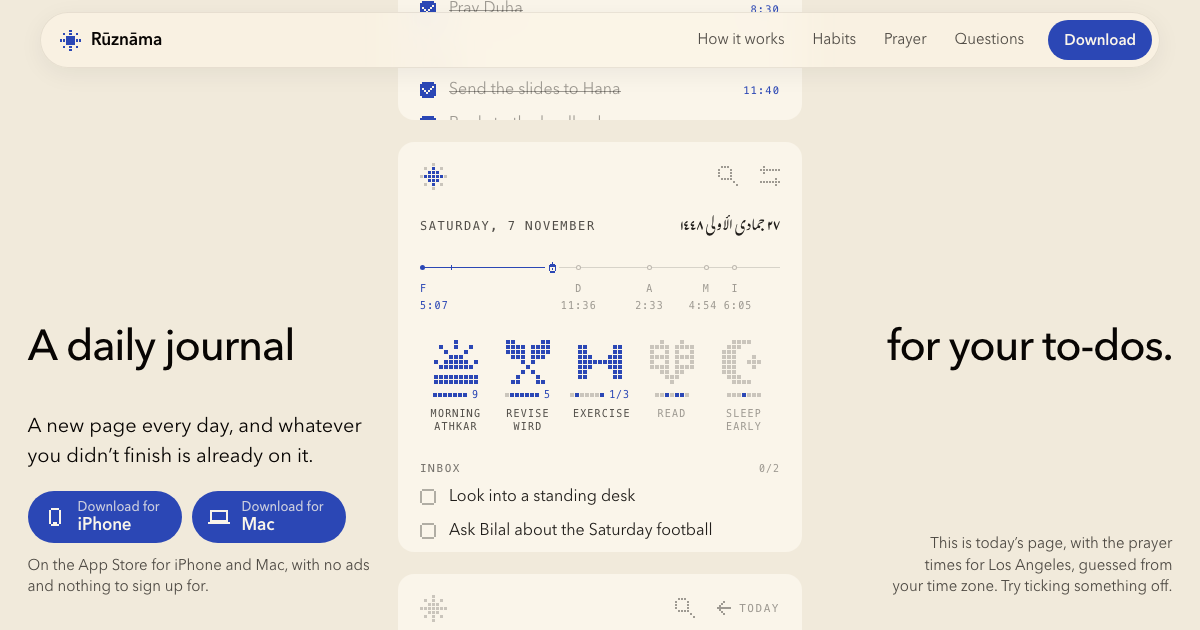
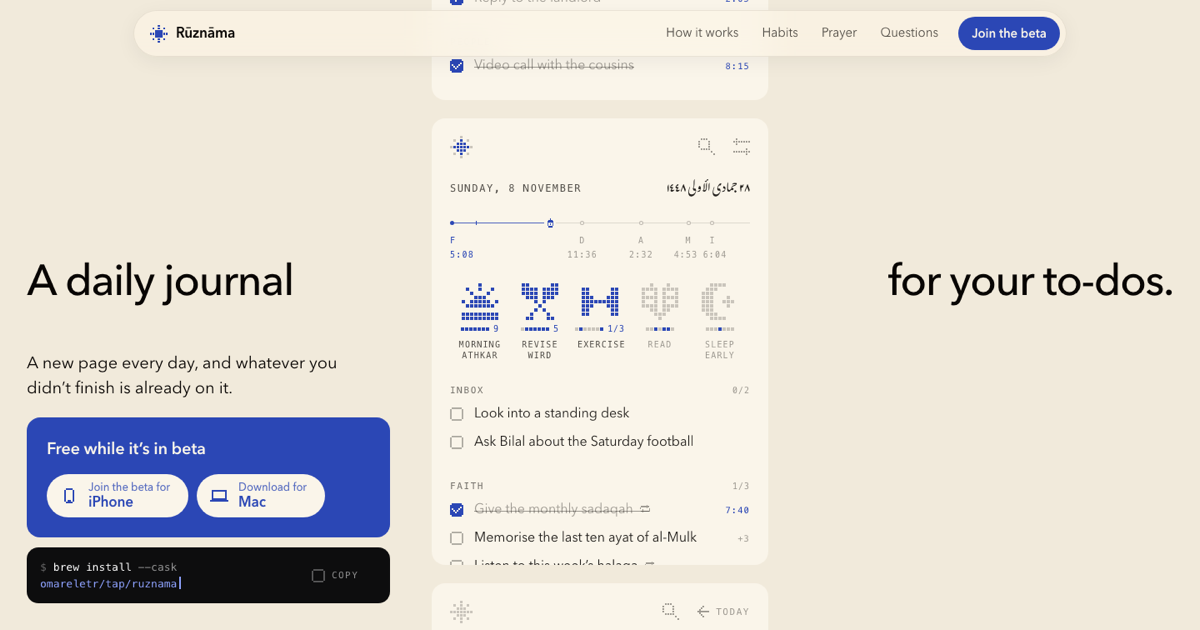
Free in beta on a lapis field with the buttons, Homebrew up top as a small terminal
The hero's grey notes go. The offer, its founders' promise and both buttons
stand on one flat lapis field, kept 48px clear of the day page at every width;
the brew line sits under it in the page's ink turned over, with the app's caret
and box. The final section says the same words plainly. New social preview.

diff --git a/index.html b/index.html
@@ -19,14 +19,14 @@
 <link rel="icon" href="favicon.svg" type="image/svg+xml">
 <link rel="apple-touch-icon" href="media/apple-touch-icon.png">
 <link rel="preload" href="fonts/gulzar-subset.woff2" as="font" type="font/woff2" crossorigin>
-<link rel="stylesheet" href="css/app.css?v=mw8h2xjx">
-<link rel="stylesheet" href="css/page.css?v=mw8h2xjx">
-<script src="sky.js?v=mw8h2xjx"></script>
+<link rel="stylesheet" href="css/app.css?v=mw8k8u9p">
+<link rel="stylesheet" href="css/page.css?v=mw8k8u9p">
+<script src="sky.js?v=mw8k8u9p"></script>
 <script src="vendor/gsap.min.js" defer></script>
 <script src="vendor/ScrollTrigger.min.js" defer></script>
 <script src="vendor/lenis.min.js" defer></script>
-<script src="js/page.js?v=mw8h2xjx" defer></script>
-<script src="js/motion.js?v=mw8h2xjx" defer></script>
+<script src="js/page.js?v=mw8k8u9p" defer></script>
+<script src="js/motion.js?v=mw8k8u9p" defer></script>
 <script type="application/ld+json">
 {"@context":"https://schema.org","@type":"SoftwareApplication","name":"Rūznāma","alternateName":"Ruznama","operatingSystem":"iOS, macOS","applicationCategory":"ProductivityApplication","description":"A daily journal for your to-dos. You get a new page every day, and anything you didn't finish moves onto it at 4am.","url":"https://ruznama.app/","installUrl":"https://testflight.apple.com/join/cyVZVRZA","author":{"@type":"Person","name":"Omar El-Etr"}}
 </script>
@@ -141,11 +141,10 @@
     <div class="hero-foot">
       <p class="hero-sub">A new page every day, and whatever you didn’t finish is already on it.</p>
       <div class="hero-act">
-        <div class="stores"><a class="store store-phone" href="https://testflight.apple.com/join/cyVZVRZA" aria-label="Join the iPhone beta on TestFlight"><svg class="px phone" viewBox="0 0 6 9" aria-hidden="true" focusable="false"><rect x="1" y="0" width="1" height="1"/><rect x="2" y="0" width="1" height="1"/><rect x="3" y="0" width="1" height="1"/><rect x="4" y="0" width="1" height="1"/><rect x="0" y="1" width="1" height="1"/><rect x="5" y="1" width="1" height="1"/><rect x="0" y="2" width="1" height="1"/><rect x="5" y="2" width="1" height="1"/><rect x="0" y="3" width="1" height="1"/><rect x="5" y="3" width="1" height="1"/><rect x="0" y="4" width="1" height="1"/><rect x="5" y="4" width="1" height="1"/><rect x="0" y="5" width="1" height="1"/><rect x="5" y="5" width="1" height="1"/><rect x="0" y="6" width="1" height="1"/><rect x="5" y="6" width="1" height="1"/><rect x="0" y="7" width="1" height="1"/><rect x="2" y="7" width="1" height="1"/><rect x="3" y="7" width="1" height="1"/><rect x="5" y="7" width="1" height="1"/><rect x="1" y="8" width="1" height="1"/><rect x="2" y="8" width="1" height="1"/><rect x="3" y="8" width="1" height="1"/><rect x="4" y="8" width="1" height="1"/></svg><span class="store-t"><small>Join the beta for</small>iPhone</span></a><a class="store store-mac" href="https://github.com/omareletr/homebrew-tap/releases/latest/download/Ruznama.dmg" aria-label="Download the Mac beta"><svg class="px mac" viewBox="0 0 11 7" aria-hidden="true" focusable="false"><rect x="1" y="0" width="1" height="1"/><rect x="2" y="0" width="1" height="1"/><rect x="3" y="0" width="1" height="1"/><rect x="4" y="0" width="1" height="1"/><rect x="5" y="0" width="1" height="1"/><rect x="6" y="0" width="1" height="1"/><rect x="7" y="0" width="1" height="1"/><rect x="8" y="0" width="1" height="1"/><rect x="9" y="0" width="1" height="1"/><rect x="1" y="1" width="1" height="1"/><rect x="9" y="1" width="1" height="1"/><rect x="1" y="2" width="1" height="1"/><rect x="9" y="2" width="1" height="1"/><rect x="1" y="3" width="1" height="1"/><rect x="9" y="3" width="1" height="1"/><rect x="1" y="4" width="1" height="1"/><rect x="9" y="4" width="1" height="1"/><rect x="1" y="5" width="1" height="1"/><rect x="2" y="5" width="1" height="1"/><rect x="3" y="5" width="1" height="1"/><rect x="4" y="5" width="1" height="1"/><rect x="5" y="5" width="1" height="1"/><rect x="6" y="5" width="1" height="1"/><rect x="7" y="5" width="1" height="1"/><rect x="8" y="5" width="1" height="1"/><rect x="9" y="5" width="1" height="1"/><rect x="0" y="6" width="1" height="1"/><rect x="1" y="6" width="1" height="1"/><rect x="2" y="6" width="1" height="1"/><rect x="3" y="6" width="1" height="1"/><rect x="4" y="6" width="1" height="1"/><rect x="5" y="6" width="1" height="1"/><rect x="6" y="6" width="1" height="1"/><rect x="7" y="6" width="1" height="1"/><rect x="8" y="6" width="1" height="1"/><rect x="9" y="6" width="1" height="1"/><rect x="10" y="6" width="1" height="1"/></svg><span class="store-t"><small>Download for</small>Mac</span></a></div>
-        <span class="hero-for">In beta for iPhone and Mac, with no ads and nothing to sign up for. Join now and you’ll pay less for it, for good, once it goes on sale.</span>
+        <div class="offer-field tone-lapis"><p class="offer-h">Free while it’s in beta</p><p class="offer-t">Join before it goes on sale and you’ll always pay less.</p><div class="stores"><a class="store store-phone" href="https://testflight.apple.com/join/cyVZVRZA" aria-label="Join the iPhone beta on TestFlight"><svg class="px phone" viewBox="0 0 6 9" aria-hidden="true" focusable="false"><rect x="1" y="0" width="1" height="1"/><rect x="2" y="0" width="1" height="1"/><rect x="3" y="0" width="1" height="1"/><rect x="4" y="0" width="1" height="1"/><rect x="0" y="1" width="1" height="1"/><rect x="5" y="1" width="1" height="1"/><rect x="0" y="2" width="1" height="1"/><rect x="5" y="2" width="1" height="1"/><rect x="0" y="3" width="1" height="1"/><rect x="5" y="3" width="1" height="1"/><rect x="0" y="4" width="1" height="1"/><rect x="5" y="4" width="1" height="1"/><rect x="0" y="5" width="1" height="1"/><rect x="5" y="5" width="1" height="1"/><rect x="0" y="6" width="1" height="1"/><rect x="5" y="6" width="1" height="1"/><rect x="0" y="7" width="1" height="1"/><rect x="2" y="7" width="1" height="1"/><rect x="3" y="7" width="1" height="1"/><rect x="5" y="7" width="1" height="1"/><rect x="1" y="8" width="1" height="1"/><rect x="2" y="8" width="1" height="1"/><rect x="3" y="8" width="1" height="1"/><rect x="4" y="8" width="1" height="1"/></svg><span class="store-t"><small>Join the beta for</small>iPhone</span></a><a class="store store-mac" href="https://github.com/omareletr/homebrew-tap/releases/latest/download/Ruznama.dmg" aria-label="Download the Mac beta"><svg class="px mac" viewBox="0 0 11 7" aria-hidden="true" focusable="false"><rect x="1" y="0" width="1" height="1"/><rect x="2" y="0" width="1" height="1"/><rect x="3" y="0" width="1" height="1"/><rect x="4" y="0" width="1" height="1"/><rect x="5" y="0" width="1" height="1"/><rect x="6" y="0" width="1" height="1"/><rect x="7" y="0" width="1" height="1"/><rect x="8" y="0" width="1" height="1"/><rect x="9" y="0" width="1" height="1"/><rect x="1" y="1" width="1" height="1"/><rect x="9" y="1" width="1" height="1"/><rect x="1" y="2" width="1" height="1"/><rect x="9" y="2" width="1" height="1"/><rect x="1" y="3" width="1" height="1"/><rect x="9" y="3" width="1" height="1"/><rect x="1" y="4" width="1" height="1"/><rect x="9" y="4" width="1" height="1"/><rect x="1" y="5" width="1" height="1"/><rect x="2" y="5" width="1" height="1"/><rect x="3" y="5" width="1" height="1"/><rect x="4" y="5" width="1" height="1"/><rect x="5" y="5" width="1" height="1"/><rect x="6" y="5" width="1" height="1"/><rect x="7" y="5" width="1" height="1"/><rect x="8" y="5" width="1" height="1"/><rect x="9" y="5" width="1" height="1"/><rect x="0" y="6" width="1" height="1"/><rect x="1" y="6" width="1" height="1"/><rect x="2" y="6" width="1" height="1"/><rect x="3" y="6" width="1" height="1"/><rect x="4" y="6" width="1" height="1"/><rect x="5" y="6" width="1" height="1"/><rect x="6" y="6" width="1" height="1"/><rect x="7" y="6" width="1" height="1"/><rect x="8" y="6" width="1" height="1"/><rect x="9" y="6" width="1" height="1"/><rect x="10" y="6" width="1" height="1"/></svg><span class="store-t"><small>Download for</small>Mac</span></a></div></div>
+        <div class="brew tone-flip"><code class="brew-cmd"><span class="brew-p" aria-hidden="true">$</span> <span class="brew-verb">brew install</span> <span class="brew-flag nw">--cask</span> <span class="brew-arg">omareletr/tap/ruznama</span><i class="brew-caret" aria-hidden="true"></i></code><button class="brew-copy" type="button" data-copy="brew install --cask omareletr/tap/ruznama" aria-label="Copy the Homebrew command"><span class="bx-m"><svg class="px bx-open" viewBox="0 0 8 8" aria-hidden="true" focusable="false"><rect x="1" y="0" width="1" height="1"/><rect x="2" y="0" width="1" height="1"/><rect x="3" y="0" width="1" height="1"/><rect x="4" y="0" width="1" height="1"/><rect x="5" y="0" width="1" height="1"/><rect x="6" y="0" width="1" height="1"/><rect x="0" y="1" width="1" height="1"/><rect x="7" y="1" width="1" height="1"/><rect x="0" y="2" width="1" height="1"/><rect x="7" y="2" width="1" height="1"/><rect x="0" y="3" width="1" height="1"/><rect x="7" y="3" width="1" height="1"/><rect x="0" y="4" width="1" height="1"/><rect x="7" y="4" width="1" height="1"/><rect x="0" y="5" width="1" height="1"/><rect x="7" y="5" width="1" height="1"/><rect x="0" y="6" width="1" height="1"/><rect x="7" y="6" width="1" height="1"/><rect x="1" y="7" width="1" height="1"/><rect x="2" y="7" width="1" height="1"/><rect x="3" y="7" width="1" height="1"/><rect x="4" y="7" width="1" height="1"/><rect x="5" y="7" width="1" height="1"/><rect x="6" y="7" width="1" height="1"/></svg><svg class="px bx-done" viewBox="0 0 8 8" aria-hidden="true" focusable="false"><rect x="3" y="3" width="1" height="1" style="--d:1ms;--r:215ms"/><rect x="4" y="3" width="1" height="1" style="--d:3ms;--r:199ms"/><rect x="3" y="4" width="1" height="1" style="--d:6ms;--r:187ms"/><rect x="3" y="2" width="1" height="1" style="--d:8ms;--r:178ms"/><rect x="4" y="2" width="1" height="1" style="--d:10ms;--r:170ms"/><rect x="2" y="3" width="1" height="1" style="--d:13ms;--r:163ms"/><rect x="5" y="4" width="1" height="1" style="--d:15ms;--r:157ms"/><rect x="4" y="5" width="1" height="1" style="--d:17ms;--r:151ms"/><rect x="2" y="2" width="1" height="1" style="--d:20ms;--r:145ms"/><rect x="5" y="2" width="1" height="1" style="--d:22ms;--r:140ms"/><rect x="2" y="5" width="1" height="1" style="--d:25ms;--r:134ms"/><rect x="5" y="5" width="1" height="1" style="--d:27ms;--r:129ms"/><rect x="3" y="1" width="1" height="1" style="--d:30ms;--r:125ms"/><rect x="4" y="1" width="1" height="1" style="--d:32ms;--r:120ms"/><rect x="6" y="3" width="1" height="1" style="--d:35ms;--r:116ms"/><rect x="1" y="4" width="1" height="1" style="--d:37ms;--r:112ms"/><rect x="6" y="4" width="1" height="1" style="--d:40ms;--r:108ms"/><rect x="3" y="6" width="1" height="1" style="--d:43ms;--r:104ms"/><rect x="4" y="6" width="1" height="1" style="--d:46ms;--r:100ms"/><rect x="2" y="1" width="1" height="1" style="--d:48ms;--r:96ms"/><rect x="5" y="1" width="1" height="1" style="--d:51ms;--r:92ms"/><rect x="1" y="2" width="1" height="1" style="--d:54ms;--r:89ms"/><rect x="1" y="5" width="1" height="1" style="--d:57ms;--r:85ms"/><rect x="6" y="5" width="1" height="1" style="--d:60ms;--r:82ms"/><rect x="2" y="6" width="1" height="1" style="--d:63ms;--r:79ms"/><rect x="5" y="6" width="1" height="1" style="--d:66ms;--r:75ms"/><rect x="3" y="0" width="1" height="1" style="--d:69ms;--r:72ms"/><rect x="4" y="0" width="1" height="1" style="--d:72ms;--r:69ms"/><rect x="1" y="1" width="1" height="1" style="--d:75ms;--r:66ms"/><rect x="6" y="1" width="1" height="1" style="--d:79ms;--r:63ms"/><rect x="0" y="3" width="1" height="1" style="--d:82ms;--r:60ms"/><rect x="7" y="3" width="1" height="1" style="--d:85ms;--r:57ms"/><rect x="0" y="4" width="1" height="1" style="--d:89ms;--r:54ms"/><rect x="7" y="4" width="1" height="1" style="--d:92ms;--r:51ms"/><rect x="1" y="6" width="1" height="1" style="--d:96ms;--r:48ms"/><rect x="6" y="6" width="1" height="1" style="--d:100ms;--r:46ms"/><rect x="3" y="7" width="1" height="1" style="--d:104ms;--r:43ms"/><rect x="4" y="7" width="1" height="1" style="--d:108ms;--r:40ms"/><rect x="2" y="0" width="1" height="1" style="--d:112ms;--r:37ms"/><rect x="5" y="0" width="1" height="1" style="--d:116ms;--r:35ms"/><rect x="0" y="2" width="1" height="1" style="--d:120ms;--r:32ms"/><rect x="7" y="2" width="1" height="1" style="--d:125ms;--r:30ms"/><rect x="0" y="5" width="1" height="1" style="--d:129ms;--r:27ms"/><rect x="7" y="5" width="1" height="1" style="--d:134ms;--r:25ms"/><rect x="2" y="7" width="1" height="1" style="--d:140ms;--r:22ms"/><rect x="5" y="7" width="1" height="1" style="--d:145ms;--r:20ms"/><rect x="1" y="0" width="1" height="1" style="--d:151ms;--r:17ms"/><rect x="6" y="0" width="1" height="1" style="--d:157ms;--r:15ms"/><rect x="0" y="1" width="1" height="1" style="--d:163ms;--r:13ms"/><rect x="7" y="1" width="1" height="1" style="--d:170ms;--r:10ms"/><rect x="0" y="6" width="1" height="1" style="--d:178ms;--r:8ms"/><rect x="7" y="6" width="1" height="1" style="--d:187ms;--r:6ms"/><rect x="1" y="7" width="1" height="1" style="--d:199ms;--r:3ms"/><rect x="6" y="7" width="1" height="1" style="--d:215ms;--r:1ms"/></svg></span><span class="brew-copy-t">Copy</span></button></div>
       </div>
     </div>
-    <p class="hero-note" data-place>This is today’s page, with today’s date. Try ticking something off.</p>
   </div>
 </section>
 
@@ -365,7 +364,7 @@
         <li>Add a task from any app, on keys you choose</li>
         <li>A key for nearly everything: ⌘N to write, ⌘F to find, ⌘[ and ⌘] between days</li>
       </ul>
-      <div class="both-get"><a class="store store-mac" href="https://github.com/omareletr/homebrew-tap/releases/latest/download/Ruznama.dmg" aria-label="Download the Mac beta"><svg class="px mac" viewBox="0 0 11 7" aria-hidden="true" focusable="false"><rect x="1" y="0" width="1" height="1"/><rect x="2" y="0" width="1" height="1"/><rect x="3" y="0" width="1" height="1"/><rect x="4" y="0" width="1" height="1"/><rect x="5" y="0" width="1" height="1"/><rect x="6" y="0" width="1" height="1"/><rect x="7" y="0" width="1" height="1"/><rect x="8" y="0" width="1" height="1"/><rect x="9" y="0" width="1" height="1"/><rect x="1" y="1" width="1" height="1"/><rect x="9" y="1" width="1" height="1"/><rect x="1" y="2" width="1" height="1"/><rect x="9" y="2" width="1" height="1"/><rect x="1" y="3" width="1" height="1"/><rect x="9" y="3" width="1" height="1"/><rect x="1" y="4" width="1" height="1"/><rect x="9" y="4" width="1" height="1"/><rect x="1" y="5" width="1" height="1"/><rect x="2" y="5" width="1" height="1"/><rect x="3" y="5" width="1" height="1"/><rect x="4" y="5" width="1" height="1"/><rect x="5" y="5" width="1" height="1"/><rect x="6" y="5" width="1" height="1"/><rect x="7" y="5" width="1" height="1"/><rect x="8" y="5" width="1" height="1"/><rect x="9" y="5" width="1" height="1"/><rect x="0" y="6" width="1" height="1"/><rect x="1" y="6" width="1" height="1"/><rect x="2" y="6" width="1" height="1"/><rect x="3" y="6" width="1" height="1"/><rect x="4" y="6" width="1" height="1"/><rect x="5" y="6" width="1" height="1"/><rect x="6" y="6" width="1" height="1"/><rect x="7" y="6" width="1" height="1"/><rect x="8" y="6" width="1" height="1"/><rect x="9" y="6" width="1" height="1"/><rect x="10" y="6" width="1" height="1"/></svg><span class="store-t"><small>Download for</small>Mac</span></a><div class="brew"><code class="brew-cmd"><span class="brew-p" aria-hidden="true">$ </span>brew install <span class="nw">--cask</span> omareletr/tap/ruznama</code><button class="brew-copy" type="button" data-copy="brew install --cask omareletr/tap/ruznama">Copy</button></div></div>
+      <div class="both-get"><a class="store store-mac" href="https://github.com/omareletr/homebrew-tap/releases/latest/download/Ruznama.dmg" aria-label="Download the Mac beta"><svg class="px mac" viewBox="0 0 11 7" aria-hidden="true" focusable="false"><rect x="1" y="0" width="1" height="1"/><rect x="2" y="0" width="1" height="1"/><rect x="3" y="0" width="1" height="1"/><rect x="4" y="0" width="1" height="1"/><rect x="5" y="0" width="1" height="1"/><rect x="6" y="0" width="1" height="1"/><rect x="7" y="0" width="1" height="1"/><rect x="8" y="0" width="1" height="1"/><rect x="9" y="0" width="1" height="1"/><rect x="1" y="1" width="1" height="1"/><rect x="9" y="1" width="1" height="1"/><rect x="1" y="2" width="1" height="1"/><rect x="9" y="2" width="1" height="1"/><rect x="1" y="3" width="1" height="1"/><rect x="9" y="3" width="1" height="1"/><rect x="1" y="4" width="1" height="1"/><rect x="9" y="4" width="1" height="1"/><rect x="1" y="5" width="1" height="1"/><rect x="2" y="5" width="1" height="1"/><rect x="3" y="5" width="1" height="1"/><rect x="4" y="5" width="1" height="1"/><rect x="5" y="5" width="1" height="1"/><rect x="6" y="5" width="1" height="1"/><rect x="7" y="5" width="1" height="1"/><rect x="8" y="5" width="1" height="1"/><rect x="9" y="5" width="1" height="1"/><rect x="0" y="6" width="1" height="1"/><rect x="1" y="6" width="1" height="1"/><rect x="2" y="6" width="1" height="1"/><rect x="3" y="6" width="1" height="1"/><rect x="4" y="6" width="1" height="1"/><rect x="5" y="6" width="1" height="1"/><rect x="6" y="6" width="1" height="1"/><rect x="7" y="6" width="1" height="1"/><rect x="8" y="6" width="1" height="1"/><rect x="9" y="6" width="1" height="1"/><rect x="10" y="6" width="1" height="1"/></svg><span class="store-t"><small>Download for</small>Mac</span></a><div class="brew tone-flip"><code class="brew-cmd"><span class="brew-p" aria-hidden="true">$</span> <span class="brew-verb">brew install</span> <span class="brew-flag nw">--cask</span> <span class="brew-arg">omareletr/tap/ruznama</span><i class="brew-caret" aria-hidden="true"></i></code><button class="brew-copy" type="button" data-copy="brew install --cask omareletr/tap/ruznama" aria-label="Copy the Homebrew command"><span class="bx-m"><svg class="px bx-open" viewBox="0 0 8 8" aria-hidden="true" focusable="false"><rect x="1" y="0" width="1" height="1"/><rect x="2" y="0" width="1" height="1"/><rect x="3" y="0" width="1" height="1"/><rect x="4" y="0" width="1" height="1"/><rect x="5" y="0" width="1" height="1"/><rect x="6" y="0" width="1" height="1"/><rect x="0" y="1" width="1" height="1"/><rect x="7" y="1" width="1" height="1"/><rect x="0" y="2" width="1" height="1"/><rect x="7" y="2" width="1" height="1"/><rect x="0" y="3" width="1" height="1"/><rect x="7" y="3" width="1" height="1"/><rect x="0" y="4" width="1" height="1"/><rect x="7" y="4" width="1" height="1"/><rect x="0" y="5" width="1" height="1"/><rect x="7" y="5" width="1" height="1"/><rect x="0" y="6" width="1" height="1"/><rect x="7" y="6" width="1" height="1"/><rect x="1" y="7" width="1" height="1"/><rect x="2" y="7" width="1" height="1"/><rect x="3" y="7" width="1" height="1"/><rect x="4" y="7" width="1" height="1"/><rect x="5" y="7" width="1" height="1"/><rect x="6" y="7" width="1" height="1"/></svg><svg class="px bx-done" viewBox="0 0 8 8" aria-hidden="true" focusable="false"><rect x="3" y="3" width="1" height="1" style="--d:1ms;--r:215ms"/><rect x="4" y="3" width="1" height="1" style="--d:3ms;--r:199ms"/><rect x="3" y="4" width="1" height="1" style="--d:6ms;--r:187ms"/><rect x="3" y="2" width="1" height="1" style="--d:8ms;--r:178ms"/><rect x="4" y="2" width="1" height="1" style="--d:10ms;--r:170ms"/><rect x="2" y="3" width="1" height="1" style="--d:13ms;--r:163ms"/><rect x="5" y="4" width="1" height="1" style="--d:15ms;--r:157ms"/><rect x="4" y="5" width="1" height="1" style="--d:17ms;--r:151ms"/><rect x="2" y="2" width="1" height="1" style="--d:20ms;--r:145ms"/><rect x="5" y="2" width="1" height="1" style="--d:22ms;--r:140ms"/><rect x="2" y="5" width="1" height="1" style="--d:25ms;--r:134ms"/><rect x="5" y="5" width="1" height="1" style="--d:27ms;--r:129ms"/><rect x="3" y="1" width="1" height="1" style="--d:30ms;--r:125ms"/><rect x="4" y="1" width="1" height="1" style="--d:32ms;--r:120ms"/><rect x="6" y="3" width="1" height="1" style="--d:35ms;--r:116ms"/><rect x="1" y="4" width="1" height="1" style="--d:37ms;--r:112ms"/><rect x="6" y="4" width="1" height="1" style="--d:40ms;--r:108ms"/><rect x="3" y="6" width="1" height="1" style="--d:43ms;--r:104ms"/><rect x="4" y="6" width="1" height="1" style="--d:46ms;--r:100ms"/><rect x="2" y="1" width="1" height="1" style="--d:48ms;--r:96ms"/><rect x="5" y="1" width="1" height="1" style="--d:51ms;--r:92ms"/><rect x="1" y="2" width="1" height="1" style="--d:54ms;--r:89ms"/><rect x="1" y="5" width="1" height="1" style="--d:57ms;--r:85ms"/><rect x="6" y="5" width="1" height="1" style="--d:60ms;--r:82ms"/><rect x="2" y="6" width="1" height="1" style="--d:63ms;--r:79ms"/><rect x="5" y="6" width="1" height="1" style="--d:66ms;--r:75ms"/><rect x="3" y="0" width="1" height="1" style="--d:69ms;--r:72ms"/><rect x="4" y="0" width="1" height="1" style="--d:72ms;--r:69ms"/><rect x="1" y="1" width="1" height="1" style="--d:75ms;--r:66ms"/><rect x="6" y="1" width="1" height="1" style="--d:79ms;--r:63ms"/><rect x="0" y="3" width="1" height="1" style="--d:82ms;--r:60ms"/><rect x="7" y="3" width="1" height="1" style="--d:85ms;--r:57ms"/><rect x="0" y="4" width="1" height="1" style="--d:89ms;--r:54ms"/><rect x="7" y="4" width="1" height="1" style="--d:92ms;--r:51ms"/><rect x="1" y="6" width="1" height="1" style="--d:96ms;--r:48ms"/><rect x="6" y="6" width="1" height="1" style="--d:100ms;--r:46ms"/><rect x="3" y="7" width="1" height="1" style="--d:104ms;--r:43ms"/><rect x="4" y="7" width="1" height="1" style="--d:108ms;--r:40ms"/><rect x="2" y="0" width="1" height="1" style="--d:112ms;--r:37ms"/><rect x="5" y="0" width="1" height="1" style="--d:116ms;--r:35ms"/><rect x="0" y="2" width="1" height="1" style="--d:120ms;--r:32ms"/><rect x="7" y="2" width="1" height="1" style="--d:125ms;--r:30ms"/><rect x="0" y="5" width="1" height="1" style="--d:129ms;--r:27ms"/><rect x="7" y="5" width="1" height="1" style="--d:134ms;--r:25ms"/><rect x="2" y="7" width="1" height="1" style="--d:140ms;--r:22ms"/><rect x="5" y="7" width="1" height="1" style="--d:145ms;--r:20ms"/><rect x="1" y="0" width="1" height="1" style="--d:151ms;--r:17ms"/><rect x="6" y="0" width="1" height="1" style="--d:157ms;--r:15ms"/><rect x="0" y="1" width="1" height="1" style="--d:163ms;--r:13ms"/><rect x="7" y="1" width="1" height="1" style="--d:170ms;--r:10ms"/><rect x="0" y="6" width="1" height="1" style="--d:178ms;--r:8ms"/><rect x="7" y="6" width="1" height="1" style="--d:187ms;--r:6ms"/><rect x="1" y="7" width="1" height="1" style="--d:199ms;--r:3ms"/><rect x="6" y="7" width="1" height="1" style="--d:215ms;--r:1ms"/></svg></span><span class="brew-copy-t">Copy</span></button></div></div>
     </div>
   </div>
 </section>
@@ -413,8 +412,8 @@
   <div class="start-text">
     <h2 id="start-h">Write your<br> first task</h2>
     <p>Try it on this page. In the app, it’ll still be there tomorrow if you don’t get to it.</p>
+    <div class="offer"><p class="offer-h">Free while it’s in beta</p><p class="offer-t">Join before it goes on sale and you’ll always pay less.</p></div>
     <div class="stores"><a class="store store-phone" href="https://testflight.apple.com/join/cyVZVRZA" aria-label="Join the iPhone beta on TestFlight"><svg class="px phone" viewBox="0 0 6 9" aria-hidden="true" focusable="false"><rect x="1" y="0" width="1" height="1"/><rect x="2" y="0" width="1" height="1"/><rect x="3" y="0" width="1" height="1"/><rect x="4" y="0" width="1" height="1"/><rect x="0" y="1" width="1" height="1"/><rect x="5" y="1" width="1" height="1"/><rect x="0" y="2" width="1" height="1"/><rect x="5" y="2" width="1" height="1"/><rect x="0" y="3" width="1" height="1"/><rect x="5" y="3" width="1" height="1"/><rect x="0" y="4" width="1" height="1"/><rect x="5" y="4" width="1" height="1"/><rect x="0" y="5" width="1" height="1"/><rect x="5" y="5" width="1" height="1"/><rect x="0" y="6" width="1" height="1"/><rect x="5" y="6" width="1" height="1"/><rect x="0" y="7" width="1" height="1"/><rect x="2" y="7" width="1" height="1"/><rect x="3" y="7" width="1" height="1"/><rect x="5" y="7" width="1" height="1"/><rect x="1" y="8" width="1" height="1"/><rect x="2" y="8" width="1" height="1"/><rect x="3" y="8" width="1" height="1"/><rect x="4" y="8" width="1" height="1"/></svg><span class="store-t"><small>Join the beta for</small>iPhone</span></a><a class="store store-mac" href="https://github.com/omareletr/homebrew-tap/releases/latest/download/Ruznama.dmg" aria-label="Download the Mac beta"><svg class="px mac" viewBox="0 0 11 7" aria-hidden="true" focusable="false"><rect x="1" y="0" width="1" height="1"/><rect x="2" y="0" width="1" height="1"/><rect x="3" y="0" width="1" height="1"/><rect x="4" y="0" width="1" height="1"/><rect x="5" y="0" width="1" height="1"/><rect x="6" y="0" width="1" height="1"/><rect x="7" y="0" width="1" height="1"/><rect x="8" y="0" width="1" height="1"/><rect x="9" y="0" width="1" height="1"/><rect x="1" y="1" width="1" height="1"/><rect x="9" y="1" width="1" height="1"/><rect x="1" y="2" width="1" height="1"/><rect x="9" y="2" width="1" height="1"/><rect x="1" y="3" width="1" height="1"/><rect x="9" y="3" width="1" height="1"/><rect x="1" y="4" width="1" height="1"/><rect x="9" y="4" width="1" height="1"/><rect x="1" y="5" width="1" height="1"/><rect x="2" y="5" width="1" height="1"/><rect x="3" y="5" width="1" height="1"/><rect x="4" y="5" width="1" height="1"/><rect x="5" y="5" width="1" height="1"/><rect x="6" y="5" width="1" height="1"/><rect x="7" y="5" width="1" height="1"/><rect x="8" y="5" width="1" height="1"/><rect x="9" y="5" width="1" height="1"/><rect x="0" y="6" width="1" height="1"/><rect x="1" y="6" width="1" height="1"/><rect x="2" y="6" width="1" height="1"/><rect x="3" y="6" width="1" height="1"/><rect x="4" y="6" width="1" height="1"/><rect x="5" y="6" width="1" height="1"/><rect x="6" y="6" width="1" height="1"/><rect x="7" y="6" width="1" height="1"/><rect x="8" y="6" width="1" height="1"/><rect x="9" y="6" width="1" height="1"/><rect x="10" y="6" width="1" height="1"/></svg><span class="store-t"><small>Download for</small>Mac</span></a></div>
-    <div class="brew"><code class="brew-cmd"><span class="brew-p" aria-hidden="true">$ </span>brew install <span class="nw">--cask</span> omareletr/tap/ruznama</code><button class="brew-copy" type="button" data-copy="brew install --cask omareletr/tap/ruznama">Copy</button></div>
   </div>
   <div class="start-page pg tone-sky" data-ui data-first>
     <div class="pg-top"><svg class="px star" viewBox="0 0 9 9" data-lit="0" aria-hidden="true" focusable="false"><rect x="4" y="4" width="1" height="1" data-i="0"/><rect x="4" y="2.667" width="1" height="1" data-i="1"/><rect x="2.667" y="4" width="1" height="1" data-i="2"/><rect x="5.333" y="4" width="1" height="1" data-i="3"/><rect x="4" y="5.333" width="1" height="1" data-i="4"/><rect x="2.667" y="2.667" width="1" height="1" data-i="5"/><rect x="5.333" y="2.667" width="1" height="1" data-i="6"/><rect x="2.667" y="5.333" width="1" height="1" data-i="7"/><rect x="5.333" y="5.333" width="1" height="1" data-i="8"/><rect x="4" y="1.333" width="1" height="1" data-i="9"/><rect x="1.333" y="4" width="1" height="1" data-i="10"/><rect x="6.667" y="4" width="1" height="1" data-i="11"/><rect x="4" y="6.667" width="1" height="1" data-i="12"/><rect x="1.333" y="1.333" width="1" height="1" data-i="13"/><rect x="6.667" y="1.333" width="1" height="1" data-i="14"/><rect x="1.333" y="6.667" width="1" height="1" data-i="15"/><rect x="6.667" y="6.667" width="1" height="1" data-i="16"/><rect x="4" y="0" width="1" height="1" data-i="17"/><rect x="0" y="4" width="1" height="1" data-i="18"/><rect x="8" y="4" width="1" height="1" data-i="19"/><rect x="4" y="8" width="1" height="1" data-i="20"/></svg><span class="pg-tools"><svg class="px lens" viewBox="0 0 10 10" aria-hidden="true" focusable="false"><rect x="1.5" y="0" width="1" height="1"/><rect x="3" y="0" width="1" height="1"/><rect x="4.5" y="0" width="1" height="1"/><rect x="0" y="1.5" width="1" height="1"/><rect x="6" y="1.5" width="1" height="1"/><rect x="0" y="3" width="1" height="1"/><rect x="6" y="3" width="1" height="1"/><rect x="0" y="4.5" width="1" height="1"/><rect x="6" y="4.5" width="1" height="1"/><rect x="1.5" y="6" width="1" height="1"/><rect x="3" y="6" width="1" height="1"/><rect x="4.5" y="6" width="1" height="1"/><rect x="6" y="6" width="1" height="1"/><rect x="7.5" y="7.5" width="1" height="1"/><rect x="9" y="9" width="1" height="1"/></svg><svg class="px sliders" viewBox="0 0 10 10" aria-hidden="true" focusable="false"><rect x="1.5" y="0" width="1" height="1"/><rect x="0" y="1.5" width="1" height="1"/><rect x="1.5" y="1.5" width="1" height="1"/><rect x="3" y="1.5" width="1" height="1"/><rect x="4.5" y="1.5" width="1" height="1"/><rect x="6" y="1.5" width="1" height="1"/><rect x="7.5" y="1.5" width="1" height="1"/><rect x="9" y="1.5" width="1" height="1"/><rect x="1.5" y="3" width="1" height="1"/><rect x="7.5" y="6" width="1" height="1"/><rect x="0" y="7.5" width="1" height="1"/><rect x="1.5" y="7.5" width="1" height="1"/><rect x="3" y="7.5" width="1" height="1"/><rect x="4.5" y="7.5" width="1" height="1"/><rect x="6" y="7.5" width="1" height="1"/><rect x="7.5" y="7.5" width="1" height="1"/><rect x="9" y="7.5" width="1" height="1"/><rect x="7.5" y="9" width="1" height="1"/></svg></span></div>

diff --git a/css/page.css b/css/page.css
@@ -26,13 +26,43 @@ a { color: inherit; }
 .store { display: inline-flex; align-items: center; gap: 12px; min-height: 52px; padding: 8px 22px 8px 16px; border-radius: 999px; background: var(--accent); color: var(--on-accent); text-decoration: none; transition: background-color .3s var(--ease), transform .15s ease-out; }
 .store:active { transform: scale(.96); }
 .store .px { width: 22px; height: 18px; }
-/* Homebrew's line: a terminal's one row on the page's paper, the command in mono, COPY in tracked capitals. */
-.brew { display: flex; align-items: center; gap: 4px; width: min(100%, 470px); min-height: 52px; padding: 6px 6px 6px 18px; border-radius: 14px; box-shadow: inset 0 0 0 1px var(--line); }
-.brew-cmd { flex: 1; min-width: 0; padding: 8px 0; font: 400 14px/1.45 var(--mono); color: var(--ink); }
+/* Homebrew's line: a terminal's one row in the page's ink turned over (tone-flip: black by day, cream at night), the
+   command in its parts, the app's 2pt lapis caret after it, and COPY behind the app's box, which fills once copied. */
+.brew { display: flex; align-items: center; gap: 4px; width: min(100%, 470px); min-height: 52px; padding: 6px 6px 6px 16px; border-radius: 14px; background: var(--paper); color: var(--ink); }
+.brew-cmd { flex: 1; min-width: 0; padding: 8px 0; font: 400 13px/1.5 var(--mono); }
 .brew-p { color: var(--faint); }
-.brew-copy { flex: none; min-width: 72px; min-height: 40px; padding: 0 12px; border: 0; border-radius: 9px; background: none; font: 500 11px/1 var(--mono); letter-spacing: .13em; text-transform: uppercase; color: var(--accent); cursor: pointer; transition: background-color .2s var(--ease); }
-@media (hover: hover) { .brew-copy:hover { background: rgb(var(--accent-rgb) / .1); } }
-.brew-copy:active { transform: scale(.96); }
+.brew-verb { color: var(--ink); }
+.brew-flag { color: var(--label); }
+.brew-arg { color: var(--accent); }
+.brew-caret { display: inline-block; width: 2px; height: 1.15em; margin-left: 3px; vertical-align: -.2em; background: var(--accent); animation: caret 1.1s steps(1) infinite; }
+@keyframes caret { 50% { opacity: 0; } }
+@media (prefers-reduced-motion: reduce) { .brew-caret { animation: none; } }
+.brew-copy { flex: none; display: inline-flex; align-items: center; gap: 8px; min-width: 100px; min-height: 40px; padding: 0 12px; border: 0; border-radius: 8px; background: none; font: 500 11px/1 var(--mono); letter-spacing: .13em; text-transform: uppercase; color: var(--label); cursor: pointer; transition: background-color .2s var(--ease), color .2s var(--ease); }
+.brew-copy .bx-m { flex: none; }
+.brew-copy.is-done { color: var(--accent); }
+@media (hover: hover) { .brew-copy:hover { background: rgb(var(--ink-rgb) / .08); color: var(--ink); } .brew-copy.is-done:hover { color: var(--accent); } .brew-copy:hover .bx-open rect { fill: rgb(var(--ink-rgb) / .45); } }
+.brew-copy:active .bx-m { transform: scale(.88); }
+.brew-copy:focus-visible { outline: 2px solid var(--accent); outline-offset: 2px; }
+
+/* What the beta costs, with the buttons: in the hero a flat field of lapis holding its name, the founders' promise
+   and the buttons (tone-lapis turns them cream on it); at the foot, already lapis, the same words plainly. */
+.offer-field { display: grid; justify-items: start; gap: 8px; padding: 24px; border-radius: var(--r); background: var(--paper); color: var(--ink); }
+.offer-field .stores { margin-top: 8px; }
+.offer { display: grid; gap: 8px; }
+.offer-h { font: 600 20px/28px var(--sans); letter-spacing: -.01em; color: var(--ink); }
+.offer-t { font-size: 16px; line-height: 24px; color: var(--text); text-wrap: pretty; }
+/* A short window has no room under the headline for the promise: the label stays at the buttons, the sentence is said again at the foot and in Questions. */
+@media (min-width: 1101px) and (max-height: 880px) { .hero .offer-t { display: none; } }
+/* Below 1000px of height the headline rides higher, and higher again below 800, so the field clears it; on narrow
+   desktops the field closes in so both buttons keep one row. */
+@media (min-width: 1101px) and (max-height: 1000px) { .hero .hero-h { top: calc(50% - 8px); } }
+@media (min-width: 1101px) and (max-height: 800px) { .hero .hero-h { top: calc(50% - 40px); } }
+@media (min-width: 1101px) and (max-width: 1300px) { .offer-field { padding: 16px; } .offer-field .stores { gap: 8px; } .offer-field .store { padding: 8px 16px 8px 12px; } }
+@media (min-width: 1101px) and (max-width: 1250px) { .offer-field .store { padding: 8px 16px; } .offer-field .store .px { display: none; } }
+@media (min-width: 1101px) and (max-width: 1180px) { .hero .brew { display: none; } } /* too narrow for the command: it stays under On Mac */
+@media (min-width: 1101px) and (max-height: 700px) { .hero .brew { display: none; } } /* too short for it too */
+@media (min-width: 1101px) and (max-width: 1150px) { .offer-field { padding: 12px; } .offer-field .store { padding: 8px 12px; } }
+@media (max-width: 520px) { .offer-field { padding: 16px; } .offer-field .stores { gap: 8px; } .offer-field .store { gap: 8px; padding: 8px 14px 8px 12px; } }
 .faq code { font: 400 15px/1 var(--mono); }
 .nw { white-space: nowrap; }
 .store .px.phone { padding: 0 5px; }
@@ -74,11 +104,11 @@ a { color: inherit; }
 .reel { --w: 404px; --peek: 56px; --gap: 22px; --h: calc(100svh - 64px - 2 * (var(--peek) + var(--gap))); position: absolute; top: 64px; bottom: 0; left: 50%; width: var(--w); margin-left: calc(var(--w) / -2); }
 .reel-strip { position: absolute; left: 0; right: 0; top: calc(var(--peek) + var(--gap) - (var(--h) + var(--gap))); display: flex; flex-direction: column; gap: var(--gap); will-change: transform; }
 .frame { height: var(--h); overflow: hidden; border-radius: var(--r); }
-.hero-foot { position: absolute; left: var(--m); bottom: 32px; width: min(380px, calc(50% - 236px)); display: grid; gap: 20px; }
-.hero-sub { font-size: 20px; line-height: 1.5; color: var(--ink); }
+.hero-foot { position: absolute; left: var(--m); bottom: 32px; width: min(470px, calc(50% - 252px - var(--m))); display: grid; gap: 20px; }
+/* Up to 470px, as wide as Homebrew's line on one row, and always 48px clear of the day page, which starts 204px left
+   of the centre; narrower, the command takes two rows. */
+.hero-sub { max-width: 380px; font-size: 20px; line-height: 1.5; color: var(--ink); }
 .hero-act { display: grid; gap: 12px; }
-.hero-for { font-size: 15px; line-height: 1.45; color: var(--soft); }
-.hero-note { position: absolute; right: var(--m); bottom: 32px; width: min(280px, calc(50% - 250px)); text-align: right; font-size: 15px; line-height: 1.45; color: var(--soft); }
 
 /* How a task lives: the days stand in a row, as when you swipe between pages in the app. At 4am
    the row moves on one, and the task is already on the page that comes round. */
@@ -271,8 +301,9 @@ html:not([data-sky]) .sky-night { display: none; }
 .start-text { align-self: end; display: grid; grid-template-columns: minmax(0, 1fr); gap: 20px; justify-items: start; padding-bottom: 8px; }
 .start h2 { font-size: clamp(44px, 6.7vw, 96px); font-weight: 500; letter-spacing: -.035em; line-height: .95; }
 .start-text p { max-width: 30ch; font-size: 20px; line-height: 1.45; color: var(--ink); }
-.start-text .stores { margin-top: 8px; }
-.start-text .brew { margin-top: -6px; }
+.start-text .offer { margin-top: 8px; }
+.start-text .offer p { max-width: none; } .start-text .offer .offer-h { font-size: 20px; line-height: 28px; } .start-text .offer .offer-t { font-size: 16px; line-height: 24px; }
+.start-text .stores { margin-top: -8px; }
 .start-page { justify-self: end; width: 404px; min-height: 560px; border-radius: var(--r); }
 .first-lines .ln { animation: pop .3s var(--ease) both; }
 @keyframes pop { from { opacity: 0; transform: translateY(6px); } }
@@ -303,9 +334,8 @@ html:not([data-sky]) .sky-night { display: none; }
   .reel .frame.is-today { display: block; height: 600px; }
   .reel::before, .reel::after { content: ""; display: block; height: 24px; margin: 0 0 14px; border-radius: 0 0 var(--r) var(--r); background: var(--paper); opacity: .7; }
   .reel::after { margin: 14px 0 0; border-radius: var(--r) var(--r) 0 0; }
-  .hero-foot, .hero-note { position: static; width: auto; max-width: 440px; margin: 0 auto; }
+  .hero-foot { position: static; width: auto; max-width: 440px; margin: 0 auto; }
   .hero-foot { justify-self: stretch; }
-  .hero-note { text-align: left; font-size: 15px; }
   .how-stage { grid-template-columns: minmax(0, 1fr); gap: 40px; }
   .motion .how-stage { grid-template-rows: auto minmax(0, 1fr); gap: 8px; align-items: start; padding: 96px var(--m) 16px; }
   .how-steps { margin-top: 24px; }

diff --git a/js/motion.js b/js/motion.js
@@ -65,13 +65,23 @@
     if (to) { get.href = to.href; if (to.classList.contains('store-mac')) get.textContent = 'Download for Mac'; }
   }
 
-  // Homebrew's line copies itself, and says so for a moment.
+  // Homebrew's line copies itself, and says so for a moment: the box fills and Copy turns to Copied. Where the
+  // clipboard call is refused, the older way (a selected field and copy) is tried; if both fail it says nothing.
+  function copyOld(text) {
+    var f = doc.createElement('textarea'); f.value = text; f.setAttribute('readonly', ''); f.style.cssText = 'position:fixed;opacity:0';
+    doc.body.appendChild(f); f.select(); var ok = false; try { ok = doc.execCommand('copy'); } catch (e) {} f.remove(); return ok;
+  }
   document.querySelectorAll('[data-copy]').forEach(function (b) {
+    function done() {
+      var t = b.querySelector('.brew-copy-t') || b;
+      b.classList.add('is-done'); t.textContent = 'Copied';
+      clearTimeout(b._t); b._t = setTimeout(function () { b.classList.remove('is-done'); t.textContent = 'Copy'; }, 1800);
+    }
     b.addEventListener('click', function () {
-      if (!navigator.clipboard) return;
-      navigator.clipboard.writeText(b.getAttribute('data-copy')).then(function () {
-        b.textContent = 'Copied'; clearTimeout(b._t); b._t = setTimeout(function () { b.textContent = 'Copy'; }, 1600);
-      });
+      var text = b.getAttribute('data-copy');
+      var fallback = function () { if (copyOld(text)) done(); };
+      if (navigator.clipboard && navigator.clipboard.writeText) navigator.clipboard.writeText(text).then(done, fallback);
+      else fallback();
     });
   });
 
@@ -103,7 +113,7 @@
            .from(lantern, { x: function () { return -lantern.offsetLeft; }, duration: 1.3, ease: 'power3.inOut' }, 0.55);
     }
   }
-  intro.from('.hero-foot > *, .hero-note', { y: 16, opacity: 0, duration: 0.8, stagger: 0.08 }, 0.5);
+  intro.from('.hero-sub, .hero-act > *', { y: 16, opacity: 0, duration: 0.8, stagger: 0.08 }, 0.5);
 
   // The reel: the days pass through the sentence as the page scrolls, holding on each.
   function stepSize() {

diff --git a/js/page.js b/js/page.js
@@ -55,10 +55,6 @@
   $$('[data-ahead]').forEach(function (el) { el.textContent = pageDate(ahead[el.getAttribute('data-ahead')]); });
   $$('[data-ahead-hijri]').forEach(function (el) { el.textContent = hijri(ahead[el.getAttribute('data-ahead-hijri')]); });
 
-  var note = $('[data-place]');
-  if (note) note.textContent = RZ.zone
-    ? 'This is today’s page, with the prayer times for ' + RZ.zone[2] + ', guessed from your time zone. Try ticking something off.'
-    : 'This is today’s page, with today’s date. Try ticking something off.';
 
   // The prayer line (PrayerLine, PrayerLineScale): Fajr to Isha over 88% of its length, the night after.
   var ORDER = ['fajr', 'dhuhr', 'asr', 'maghrib', 'isha'];

diff --git a/src/parts/11-hero.html b/src/parts/11-hero.html
@@ -39,10 +39,9 @@
     <div class="hero-foot">
       <p class="hero-sub">A new page every day, and whatever you didn’t finish is already on it.</p>
       <div class="hero-act">
-        {{stores}}
-        <span class="hero-for">In beta for iPhone and Mac, with no ads and nothing to sign up for. Join now and you’ll pay less for it, for good, once it goes on sale.</span>
+        {{offer:field}}
+        {{brew}}
       </div>
     </div>
-    <p class="hero-note" data-place>This is today’s page, with today’s date. Try ticking something off.</p>
   </div>
 </section>

diff --git a/src/parts/70-faq.html b/src/parts/70-faq.html
@@ -32,8 +32,8 @@
   <div class="start-text">
     <h2 id="start-h">Write your<br> first task</h2>
     <p>Try it on this page. In the app, it’ll still be there tomorrow if you don’t get to it.</p>
+    {{offer}}
     {{stores}}
-    {{brew}}
   </div>
   <div class="start-page pg tone-sky" data-ui data-first>
     <div class="pg-top">{{star:0}}<span class="pg-tools">{{px:lens}}{{px:sliders}}</span></div>
